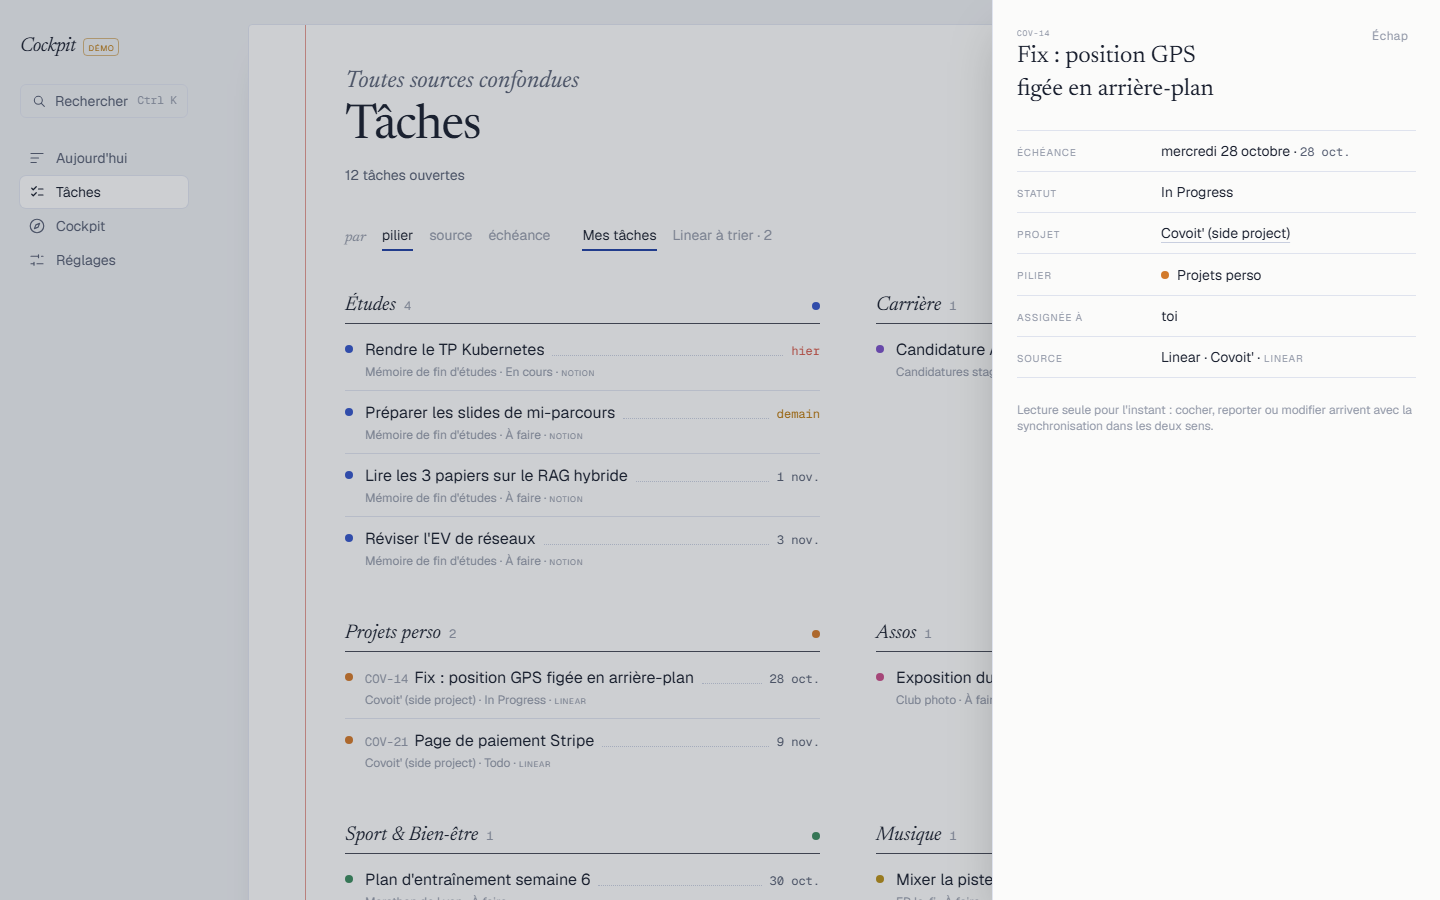
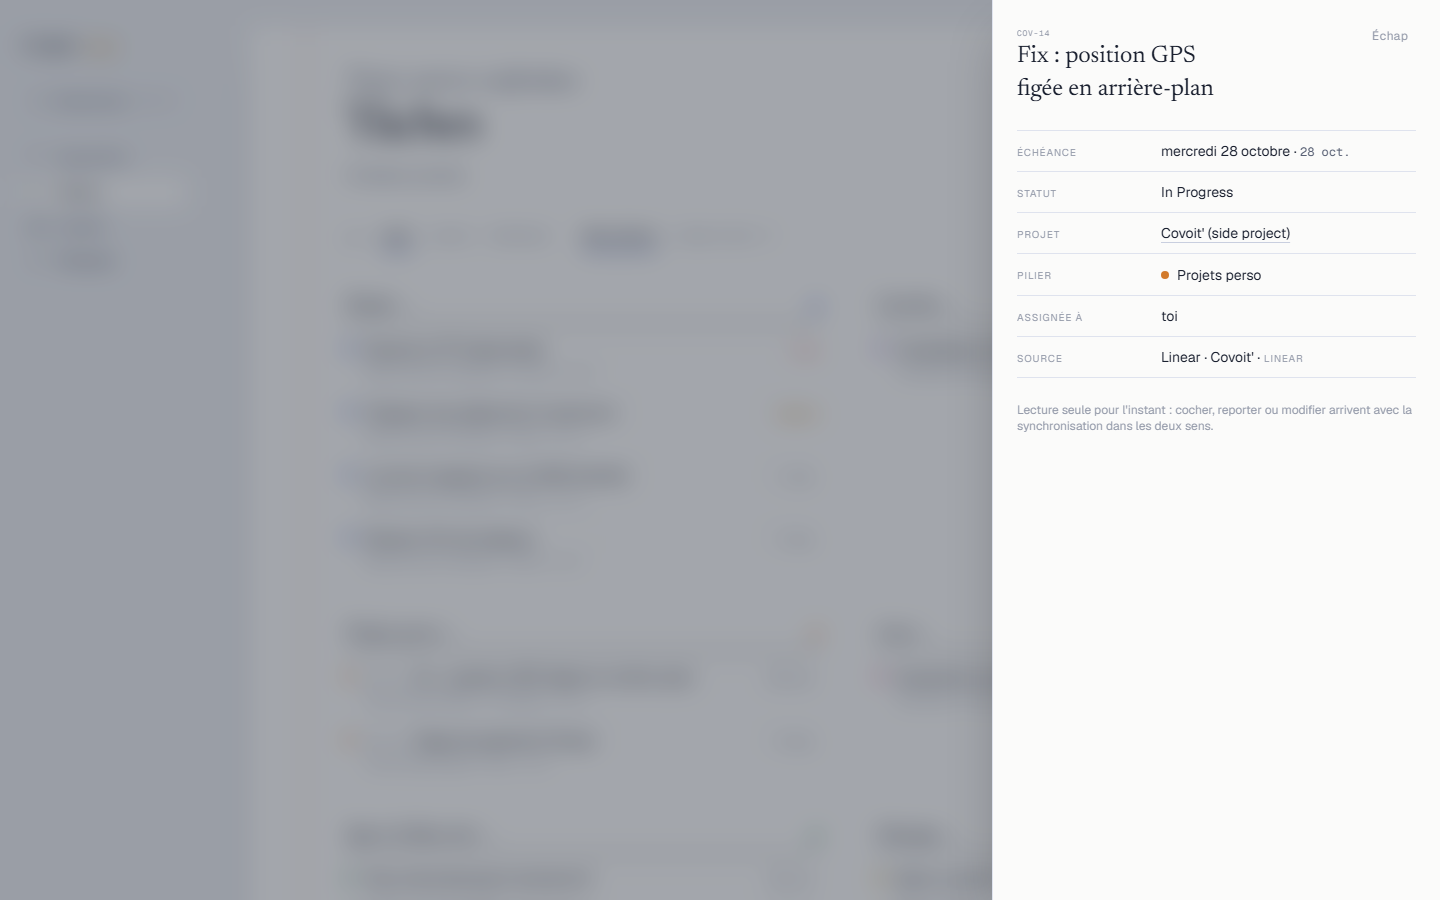
Stronger, theme-aware backdrop for dialogs; open the palette from #rechercher
- New --scrim token: dark ink in both themes (the previous ink-based tint
  turned pale in dark mode), with a 12px backdrop blur behind the command
  palette and the detail panels
- "#rechercher" opens the palette, for bookmarks and phone shortcuts
- Refreshed the two detail-panel screenshots

diff --git a/src/components/command-palette.tsx b/src/components/command-palette.tsx
@@ -39,11 +39,22 @@ export function CommandPalette() {
         else show();
       }
     };
+    // "#rechercher" opens the palette, so a bookmark or phone shortcut can land straight in search.
+    const onHash = () => {
+      if (window.location.hash === "#rechercher") {
+        history.replaceState(null, "", window.location.pathname + window.location.search);
+        show();
+      }
+    };
+    const initial = setTimeout(onHash, 0);
     window.addEventListener("keydown", onKey);
     window.addEventListener(OPEN_EVENT, show);
+    window.addEventListener("hashchange", onHash);
     return () => {
+      clearTimeout(initial);
       window.removeEventListener("keydown", onKey);
       window.removeEventListener(OPEN_EVENT, show);
+      window.removeEventListener("hashchange", onHash);
     };
   }, [open]);
 
@@ -86,7 +97,7 @@ export function CommandPalette() {
 
   let lastGroup = "";
   return (
-    <div className="fade-in fixed inset-0 z-50 flex items-start justify-center bg-ink/25 px-4 pt-[12vh] backdrop-blur-[2px]" onMouseDown={() => setOpen(false)}>
+    <div className="fade-in fixed inset-0 z-50 flex items-start justify-center bg-scrim px-4 pt-[12vh] backdrop-blur-md" onMouseDown={() => setOpen(false)}>
       <div
         role="dialog"
         aria-label="Palette de commandes"

diff --git a/src/app/globals.css b/src/app/globals.css
@@ -18,6 +18,7 @@
   --margin: #d2584a;        /* the red margin line, also "late" */
   --warn: #b9770e;
   --ok: #2f7d55;
+  --scrim: rgb(22 28 44 / 0.38); /* behind dialogs: dims and, with a blur, pushes the page back */
 
   --pillar-blue: #3657c9;
   --pillar-purple: #7b52c7;
@@ -42,6 +43,7 @@
     --margin: #e57b6c;
     --warn: #e2a93b;
     --ok: #62c08f;
+    --scrim: rgb(2 4 8 / 0.66);
     --pillar-blue: #7d97f0;
     --pillar-purple: #a98bea;
     --pillar-orange: #eb9a55;
@@ -66,6 +68,7 @@
   --color-margin: var(--margin);
   --color-warn: var(--warn);
   --color-ok: var(--ok);
+  --color-scrim: var(--scrim);
   --font-sans: var(--font-geist-sans), system-ui, sans-serif;
   --font-mono: var(--font-geist-mono), ui-monospace, monospace;
   --font-serif: var(--font-newsreader), Georgia, serif;

diff --git a/src/components/detail-panel.tsx b/src/components/detail-panel.tsx
@@ -72,7 +72,7 @@ function Shell({ close, eyebrow, title, children }: { close: string; eyebrow?: s
   return (
     <div className="fixed inset-0 z-40">
       <CloseOnEscape href={close} />
-      <Link href={close} scroll={false} aria-label="Fermer" className="fade-in absolute inset-0 bg-ink/20" />
+      <Link href={close} scroll={false} aria-label="Fermer" className="fade-in absolute inset-0 bg-scrim backdrop-blur-md" />
       <aside
         role="dialog"
         aria-label={title}

diff --git a/README.md b/README.md
@@ -34,7 +34,7 @@ npm run demo   # fictional data, no API keys needed → http://localhost:3000
 <table>
   <tr>
     <td width="50%"><img src="docs/screenshots/tache-detail.png" alt="Task detail panel over the Tâches screen"><br><sub><b>Task detail</b>: opened from any list, from search, or by URL</sub></td>
-    <td width="50%"><img src="docs/screenshots/projet-detail.png" alt="Project detail panel in dark theme, listing the project's open tasks"><br><sub><b>Project detail</b> (dark theme): weather, next action and its open tasks across sources</sub></td>
+    <td width="50%"><img src="docs/screenshots/projet-detail.png" alt="Project detail panel in dark theme, listing the project's open tasks"><br><sub><b>Project detail</b> (dark theme): weather, next action and its open tasks across sources; the page behind is dimmed and blurred</sub></td>
   </tr>
   <tr>
     <td width="50%"><img src="docs/screenshots/cockpit.png" alt="Cockpit: projects grouped by level with weather, next action and a milestone timeline"><br><sub><b>Cockpit</b>: the season's projects by level, with a milestone timeline</sub></td>
